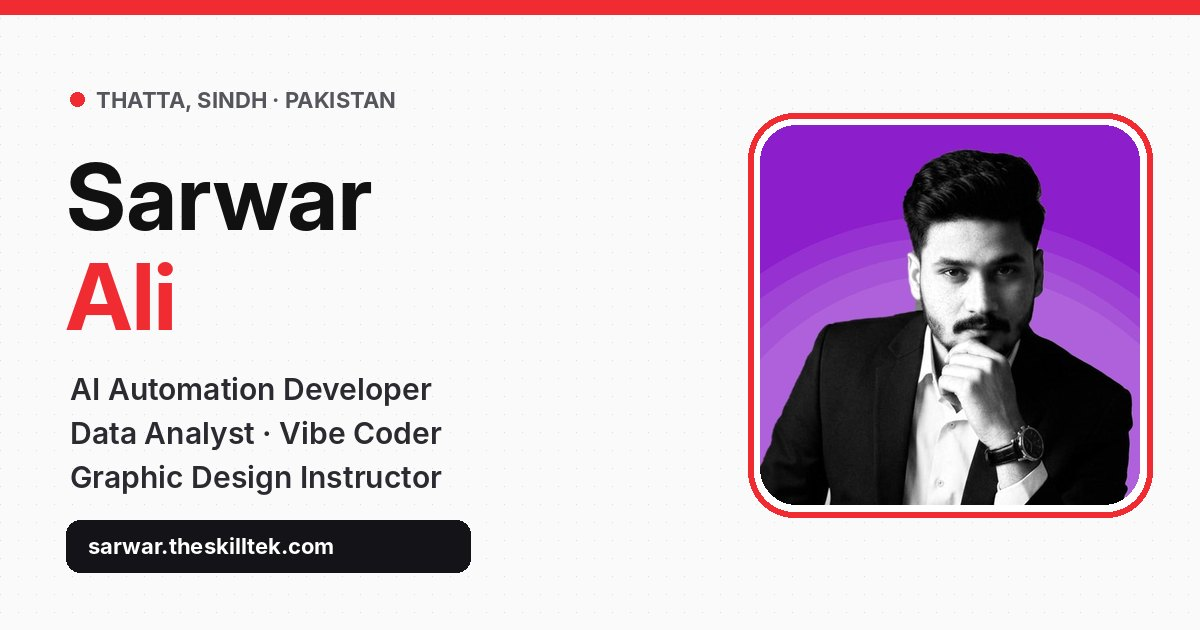
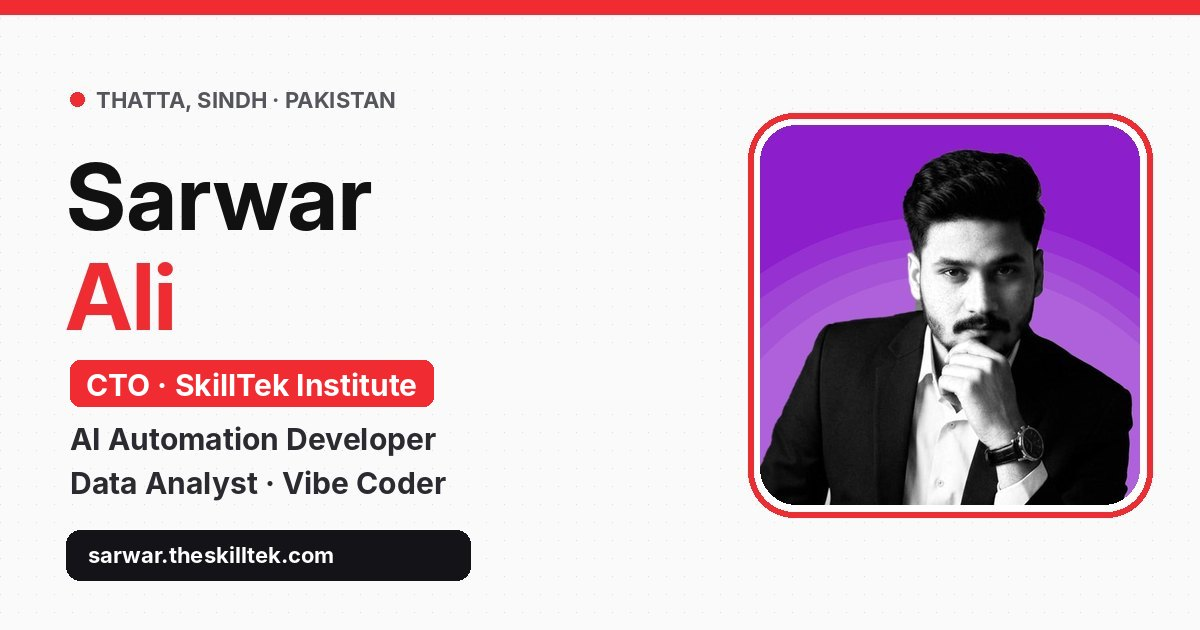
Use sarwardeveloper@gmail.com; add CTO at SkillTek to bio, timeline, schema and preview
Claude-Session: https://claude.ai/code/session_01VQYM7z4voemMEfsK4HCDMm

Changed region(s): [[0.0308, 0.573, 0.37, 0.7841], [0.0617, 0.8143, 0.4008, 0.9349]]

diff --git a/index.html b/index.html
@@ -4,17 +4,17 @@
   <meta charset="utf-8" />
   <meta name="viewport" content="width=device-width,initial-scale=1" />
   <title>Sarwar Ali · AI Automation Developer &amp; Data Analyst</title>
-<meta name="description" content="Sarwar Ali, AI automation developer from Thatta, Sindh. WhatsApp chatbots and AI agents with n8n &amp; OpenAI, vibe-coded websites and data analytics." />
+<meta name="description" content="Sarwar Ali, CTO at SkillTek and AI automation developer from Thatta, Sindh. WhatsApp chatbots and AI agents with n8n &amp; OpenAI, websites and data." />
 <meta name="author" content="Sarwar Ali" />
-<meta name="keywords" content="Sarwar Ali, Sarwar, Sarwar Ali Thatta, Sarwar Sindhi, AI automation developer, WhatsApp chatbot developer Pakistan, n8n developer, vibe coder, data analyst, graphic design instructor Thatta" />
+<meta name="keywords" content="Sarwar Ali, Sarwar, Sarwar Ali Thatta, Sarwar Ali SkillTek, SkillTek CTO, Sarwar Sindhi, AI automation developer, WhatsApp chatbot developer Pakistan, n8n developer, vibe coder, data analyst, graphic design instructor Thatta" />
 <meta name="robots" content="index, follow, max-image-preview:large, max-snippet:-1, noai, noimageai" />
 <link rel="canonical" href="https://sarwar.theskilltek.com/" />
 <meta property="og:type" content="profile" />
 <meta property="og:site_name" content="Sarwar Ali" />
 <meta property="og:url" content="https://sarwar.theskilltek.com/" />
 <meta property="og:title" content="Sarwar Ali · AI Automation Developer" />
-<meta property="og:description" content="WhatsApp AI agents, n8n workflows, vibe-coded websites, data analytics and design — from Thatta, Sindh." />
-<meta property="og:image" content="https://sarwar.theskilltek.com/assets/og-image.jpg" />
+<meta property="og:description" content="CTO at SkillTek. WhatsApp AI agents, n8n workflows, vibe-coded websites, data analytics and design — from Thatta, Sindh." />
+<meta property="og:image" content="https://sarwar.theskilltek.com/assets/og-image.jpg?v=2" />
 <meta property="og:image:width" content="1200" />
 <meta property="og:image:height" content="630" />
 <meta property="og:image:alt" content="Sarwar Ali — AI Automation Developer, Data Analyst, Vibe Coder" />
@@ -23,13 +23,13 @@
 <meta property="profile:last_name" content="Ali" />
 <meta name="twitter:card" content="summary_large_image" />
 <meta name="twitter:title" content="Sarwar Ali · AI Automation Developer" />
-<meta name="twitter:description" content="WhatsApp AI agents, n8n workflows, vibe-coded websites, data analytics and design." />
-<meta name="twitter:image" content="https://sarwar.theskilltek.com/assets/og-image.jpg" />
+<meta name="twitter:description" content="CTO at SkillTek. WhatsApp AI agents, n8n workflows, vibe-coded websites, data analytics and design." />
+<meta name="twitter:image" content="https://sarwar.theskilltek.com/assets/og-image.jpg?v=2" />
 <meta name="theme-color" content="#F12B32" />
 <link rel="icon" type="image/png" sizes="32x32" href="assets/favicon-32.png" />
 <link rel="apple-touch-icon" href="assets/apple-touch-icon.png" />
 <link rel="manifest" href="site.webmanifest" />
-<script type="application/ld+json">{"@context": "https://schema.org", "@graph": [{"@type": "Person", "@id": "https://sarwar.theskilltek.com/#sarwar", "name": "Sarwar Ali", "alternateName": ["Sarwar", "Sarwar Sindhi", "Saru"], "url": "https://sarwar.theskilltek.com/", "image": "https://sarwar.theskilltek.com/assets/og-image.jpg", "jobTitle": "AI Automation Developer, Data Analyst & Graphic Design Instructor", "description": "Sarwar Ali is an AI automation developer, data analyst, vibe coder and graphic design instructor from Thatta, Sindh, Pakistan. He builds WhatsApp chatbots and AI agents with n8n, OpenAI and Supabase.", "email": "mailto:sarwaralii785@gmail.com", "address": {"@type": "PostalAddress", "addressLocality": "Thatta", "addressRegion": "Sindh", "addressCountry": "PK"}, "alumniOf": {"@type": "CollegeOrUniversity", "name": "University of Sindh"}, "worksFor": [{"@type": "Organization", "name": "People's Information Technology Programme (PITP), MUET"}, {"@type": "Organization", "name": "NAVTTC"}], "knowsAbout": ["AI automation", "n8n", "WhatsApp chatbots", "AI agents", "OpenAI", "Supabase", "Vibe coding", "Python", "SQL", "Power BI", "Data analytics", "Graphic design", "Adobe Photoshop", "Adobe Illustrator"], "sameAs": ["https://www.linkedin.com/in/sarwar-ali-6991b1277/", "https://github.com/SARWAR110786", "https://www.instagram.com/sarwar9695/", "https://www.facebook.com/Saruali"]}, {"@type": "ProfilePage", "@id": "https://sarwar.theskilltek.com/#page", "url": "https://sarwar.theskilltek.com/", "name": "Sarwar Ali · Portfolio", "mainEntity": {"@id": "https://sarwar.theskilltek.com/#sarwar"}, "inLanguage": "en"}, {"@type": "WebSite", "@id": "https://sarwar.theskilltek.com/#site", "url": "https://sarwar.theskilltek.com/", "name": "Sarwar Ali", "publisher": {"@id": "https://sarwar.theskilltek.com/#sarwar"}}]}</script>
+<script type="application/ld+json">{"@context": "https://schema.org", "@graph": [{"@type": "Person", "@id": "https://sarwar.theskilltek.com/#sarwar", "name": "Sarwar Ali", "alternateName": ["Sarwar", "Sarwar Sindhi", "Saru"], "url": "https://sarwar.theskilltek.com/", "image": "https://sarwar.theskilltek.com/assets/og-image.jpg?v=2", "jobTitle": "Chief Technology Officer (CTO) at SkillTek Institute & Media Solutions", "description": "Sarwar Ali is the CTO of SkillTek Institute & Media Solutions in Thatta, Sindh, Pakistan, and an AI automation developer, data analyst, vibe coder and graphic design instructor. He builds WhatsApp chatbots and AI agents with n8n, OpenAI and Supabase.", "email": "mailto:sarwardeveloper@gmail.com", "address": {"@type": "PostalAddress", "addressLocality": "Thatta", "addressRegion": "Sindh", "addressCountry": "PK"}, "alumniOf": {"@type": "CollegeOrUniversity", "name": "University of Sindh"}, "worksFor": [{"@type": "EducationalOrganization", "name": "SkillTek Institute & Media Solutions", "url": "https://theskilltek.com/"}, {"@type": "Organization", "name": "People's Information Technology Programme (PITP), MUET"}, {"@type": "Organization", "name": "NAVTTC"}], "knowsAbout": ["AI automation", "n8n", "WhatsApp chatbots", "AI agents", "OpenAI", "Supabase", "Vibe coding", "Python", "SQL", "Power BI", "Data analytics", "Graphic design", "Adobe Photoshop", "Adobe Illustrator"], "sameAs": ["https://www.linkedin.com/in/sarwar-ali-6991b1277/", "https://github.com/SARWAR110786", "https://www.instagram.com/sarwar9695/", "https://www.facebook.com/Saruali"], "hasOccupation": {"@type": "Occupation", "name": "Chief Technology Officer", "occupationLocation": {"@type": "City", "name": "Thatta"}}}, {"@type": "ProfilePage", "@id": "https://sarwar.theskilltek.com/#page", "url": "https://sarwar.theskilltek.com/", "name": "Sarwar Ali · Portfolio", "mainEntity": {"@id": "https://sarwar.theskilltek.com/#sarwar"}, "inLanguage": "en"}, {"@type": "WebSite", "@id": "https://sarwar.theskilltek.com/#site", "url": "https://sarwar.theskilltek.com/", "name": "Sarwar Ali", "publisher": {"@id": "https://sarwar.theskilltek.com/#sarwar"}}]}</script>
 <link rel="preconnect" href="https://fonts.googleapis.com" />
   <link rel="preconnect" href="https://fonts.gstatic.com" crossorigin />
   <link rel="stylesheet" href="https://fonts.googleapis.com/css2?family=Instrument+Serif:ital@1&family=Bricolage+Grotesque:opsz,wght@12..96,600&family=Archivo:wght@400;500;700;800;900&display=swap" />
@@ -64,14 +64,14 @@
   <!-- ============ HERO ============ -->
   <section id="top" class="hero" aria-label="Intro">
     <div class="hero-left">
-      <p class="eyebrow"><span class="dot" aria-hidden="true"></span>THATTA, SINDH · OPEN FOR PROJECTS</p>
+      <p class="eyebrow"><span class="dot" aria-hidden="true"></span>CTO AT SKILLTEK · THATTA, SINDH</p>
 
       <h1 class="headline">
         Hi, I'm <em>Sarwar Ali,</em> I build WhatsApp chatbots, AI agents &amp; websites that work.
       </h1>
 
       <p class="lede">
-        AI automation developer, data analyst, vibe coder and graphic design instructor.
+        CTO at <a class="lede-link" href="https://theskilltek.com/" target="_blank" rel="noopener">SkillTek Institute &amp; Media Solutions</a>, AI automation developer, data analyst, vibe coder and graphic design instructor.
         I build with n8n, OpenAI and Supabase, ship sites with AI-assisted development,
         and turn raw data into dashboards. Hold the trigger to spray my work.
       </p>
@@ -217,15 +217,15 @@
       </figure>
 
       <div class="about-copy reveal">
-        <p class="about-lead">I'm Sarwar Ali, a Computer Science student at the University of Sindh and an AI automation developer based in Makli, Thatta.</p>
+        <p class="about-lead">I'm Sarwar Ali, CTO of SkillTek Institute &amp; Media Solutions, a Computer Science student at the University of Sindh, and an AI automation developer based in Makli, Thatta.</p>
         <p>I build WhatsApp chatbots and AI agents with n8n, OpenAI and Supabase, ship websites through AI-assisted development (vibe coding), and analyse data with Python, SQL and Power BI. My recent work includes a multi-flow WhatsApp chatbot for Collective Pakistan that guides citizens through the Right to Information process.</p>
-        <p>Alongside building, I teach. I've trained multiple batches of students in graphic design for the Sindh government's People's IT Programme at MUET, and I'm an instructor under the NAVTTC programme. Freelancing on Fiverr since 2018 taught me to deliver for real clients.</p>
+        <p>At SkillTek I lead technology: the website, student portal, LMS and automation tools, IT infrastructure and our Agentic AI &amp; Automation program. Alongside building, I teach. I've trained multiple batches of students in graphic design for the Sindh government's People's IT Programme at MUET, and I'm an instructor under the NAVTTC programme. Freelancing on Fiverr since 2018 taught me to deliver for real clients.</p>
         <p class="about-motto">Learn by building. Solve real problems. Automate repetitive work.</p>
 
         <dl class="facts">
           <div><dt>Based in</dt><dd>Makli, Thatta · Sindh, Pakistan</dd></div>
           <div><dt>Studying</dt><dd>BS Computer Science · University of Sindh</dd></div>
-          <div><dt>Building</dt><dd>WhatsApp AI agents, n8n workflows, websites</dd></div>
+          <div><dt>Role</dt><dd>CTO · SkillTek Institute &amp; Media Solutions</dd></div>
           <div><dt>Teaching</dt><dd>Graphic design · PITP-MUET &amp; NAVTTC</dd></div>
         </dl>
       </div>
@@ -428,6 +428,14 @@
 
     <ol class="timeline">
       <li class="tl reveal">
+        <div class="tl-when"><span>SkillTek</span><span>Present</span></div>
+        <div class="tl-body">
+          <h3>Chief Technology Officer (CTO)</h3>
+          <p class="tl-org"><a href="https://theskilltek.com/" target="_blank" rel="noopener">SkillTek Institute &amp; Media Solutions</a> · Thatta</p>
+          <p>Leading technology strategy and implementation: the website, student portal, LMS and automation tools, IT infrastructure and digital systems, technical support and innovation.</p>
+        </div>
+      </li>
+      <li class="tl reveal">
         <div class="tl-when"><span>Feb 2026</span><span>Present</span></div>
         <div class="tl-body">
           <h3>Instructor, Graphic Design</h3>
@@ -554,7 +562,7 @@
     <p class="cta-sub">I work with businesses, startups, institutes and founders who want to put AI automation into action.</p>
     <div class="cta-actions">
       <a class="key key--black" href="https://wa.me/923173024105" target="_blank" rel="noopener"><span class="key-legend" aria-hidden="true">⏎</span><span class="key-label">WhatsApp me ↗</span></a>
-      <a class="key key--white" href="mailto:sarwaralii785@gmail.com"><span class="key-legend" aria-hidden="true">@</span><span class="key-label">sarwaralii785@gmail.com</span></a>
+      <a class="key key--white" href="mailto:sarwardeveloper@gmail.com"><span class="key-legend" aria-hidden="true">@</span><span class="key-label">sarwardeveloper@gmail.com</span></a>
     </div>
   </section>
   </main>
@@ -568,7 +576,7 @@
     <ul class="socials" aria-label="Sarwar on social media">
       <li><a href="https://wa.me/923173024105" target="_blank" rel="noopener" aria-label="WhatsApp" class="socials-wa">
         <svg viewBox="0 0 24 24" aria-hidden="true"><path d="M12.04 2a9.9 9.9 0 0 0-8.5 14.98L2 22l5.17-1.5A9.93 9.93 0 1 0 12.04 2Zm0 18.13a8.2 8.2 0 0 1-4.19-1.15l-.3-.18-3.07.89.9-2.99-.2-.31a8.2 8.2 0 1 1 6.86 3.74Zm4.5-6.13c-.25-.12-1.46-.72-1.69-.8-.23-.08-.39-.12-.55.12-.16.25-.63.8-.78.97-.14.16-.29.18-.53.06-.25-.12-1.04-.38-1.98-1.22-.73-.65-1.23-1.46-1.37-1.7-.14-.25-.02-.38.11-.5.11-.11.25-.29.37-.43.12-.15.16-.25.25-.41.08-.17.04-.31-.02-.43-.06-.12-.55-1.33-.76-1.82-.2-.48-.4-.41-.55-.42h-.47a.9.9 0 0 0-.65.31c-.23.25-.86.84-.86 2.05s.88 2.38 1 2.54c.12.17 1.73 2.64 4.2 3.7.59.25 1.05.4 1.4.52.59.19 1.13.16 1.55.1.47-.07 1.46-.6 1.66-1.17.21-.58.21-1.07.14-1.17-.06-.1-.22-.17-.47-.29Z"/></svg><span>WhatsApp</span></a></li>
-      <li><a href="mailto:sarwaralii785@gmail.com" aria-label="Email">
+      <li><a href="mailto:sarwardeveloper@gmail.com" aria-label="Email">
         <svg viewBox="0 0 24 24" aria-hidden="true"><path d="M3 5h18a1 1 0 0 1 1 1v12a1 1 0 0 1-1 1H3a1 1 0 0 1-1-1V6a1 1 0 0 1 1-1Zm1 2.4V17h16V7.4l-8 5.6-8-5.6ZM5.6 7 12 11.5 18.4 7H5.6Z"/></svg><span>Email</span></a></li>
       <li><a href="https://www.linkedin.com/in/sarwar-ali-6991b1277/" target="_blank" rel="noopener" aria-label="LinkedIn">
         <svg viewBox="0 0 24 24" aria-hidden="true"><path d="M4.98 3.5a2.5 2.5 0 1 1 0 5 2.5 2.5 0 0 1 0-5ZM3 9.75h4v11H3v-11Zm6.5 0h3.8v1.5h.06c.53-1 1.83-2.05 3.77-2.05 4.03 0 4.77 2.65 4.77 6.1v5.45h-4v-4.83c0-1.15-.02-2.63-1.6-2.63-1.6 0-1.85 1.25-1.85 2.55v4.91h-3.95v-11Z"/></svg><span>LinkedIn</span></a></li>
@@ -581,7 +589,7 @@
       <li><a href="cv/Sarwar-Ali-CV.pdf" target="_blank" rel="noopener" data-cv class="socials-cv">
         <svg viewBox="0 0 24 24" aria-hidden="true"><path d="M11 3h2v10.17l3.59-3.58L18 11l-6 6-6-6 1.41-1.41L11 13.17V3Zm-7 16h16v2H4v-2Z"/></svg><span>Download CV</span></a></li>
     </ul>
-    <p class="foot-meta"><span class="foot-contact">WhatsApp 0317 3024105 · sarwaralii785@gmail.com</span><br />© 2026 Sarwar Ali · Makli, Thatta · Sindh, Pakistan · All rights reserved. Content and design may not be copied or reused without permission.</p>
+    <p class="foot-meta"><span class="foot-contact">WhatsApp 0317 3024105 · sarwardeveloper@gmail.com</span><br />© 2026 Sarwar Ali · Makli, Thatta · Sindh, Pakistan · All rights reserved. Content and design may not be copied or reused without permission.</p>
   </footer>
 
   <!-- ============ DETAIL CARD ============ -->

diff --git a/script.js b/script.js
@@ -11,7 +11,7 @@
   const CONFIG = {
     whatsapp: '923173024105',
     whatsappDisplay: '0317 3024105',   // international number, digits only, e.g. '923001234567'
-    email: 'sarwaralii785@gmail.com',      // e.g. 'hello@example.com'
+    email: 'sarwardeveloper@gmail.com',      // e.g. 'hello@example.com'
     linkedin: 'https://www.linkedin.com/in/sarwar-ali-6991b1277/',
     github: 'https://github.com/SARWAR110786',
     instagram: 'https://www.instagram.com/sarwar9695/',
@@ -109,7 +109,10 @@
 
     // Profile
     { id: 'about', group: 'about', kicker: 'Profile', title: 'About Sarwar', sub: 'CS · AI · Data', photo: true,
-      desc: "I'm a Computer Science student and technology enthusiast interested in building intelligent digital solutions. My interests include AI automation, data analytics, Python, and modern web development." },
+      desc: "I'm the CTO of SkillTek Institute & Media Solutions in Thatta, a Computer Science student and an AI automation developer. I build WhatsApp chatbots, AI agents, websites and dashboards." },
+    { id: 'cto', group: 'about', kicker: 'Experience', title: 'SkillTek CTO', sub: 'Chief Technology Officer', photo: true,
+      desc: 'Chief Technology Officer at SkillTek Institute & Media Solutions, Thatta: technology strategy, the website, student portal, LMS and automation tools, IT infrastructure and digital systems.',
+      url: 'https://theskilltek.com/', urlLabel: 'Visit SkillTek ↗' },
     { id: 'whatido', group: 'about', kicker: 'Profile', title: 'What I Do', sub: 'Build · Automate · Analyse',
       list: ['AI-powered chatbots', 'WhatsApp automation', 'Business workflow automation', 'AI agent development',
              'Data analysis and visualization', 'Dashboard development',
@@ -146,14 +149,14 @@
   const BY_ID = Object.fromEntries([...BIG, ...TAGS].map((s) => [s.id, s]));
 
   // Order used while holding the trigger (every 4th shot is swapped for a random tag)
-  const ROTATION = ['p4', 'p2', 'n8n', 'about', 'p6', 'vibe', 'p1', 'trainer', 'p8', 'python', 'p10', 'sql',
+  const ROTATION = ['cto', 'p4', 'p2', 'n8n', 'about', 'p6', 'vibe', 'p1', 'trainer', 'p8', 'python', 'p10', 'sql',
     'p7', 'openai', 'cs', 'p5', 'p11', 'powerbi', 'navttc', 'p3', 'supabase', 'whatido', 'p9', 'pandas', 'fiverr',
     'design', 'p12', 'certs', 'data', 'ydwo', 'numpy', 'excel', 'make', 'approach', 'builder', 'contact'];
 
   const GROUPS = {
     work: ['p4', 'p2', 'p6', 'p1', 'p8', 'p5', 'p7', 'p3', 'p9', 'p10', 'p11', 'p12'],
     skills: ['python', 'data', 'powerbi', 'sql', 'pandas', 'numpy', 'n8n', 'supabase', 'openai', 'excel', 'make', 'vibe', 'design'],
-    about: ['about', 'trainer', 'navttc', 'ydwo', 'fiverr', 'cs', 'certs', 'whatido', 'approach', 'builder'],
+    about: ['about', 'cto', 'trainer', 'navttc', 'ydwo', 'fiverr', 'cs', 'certs', 'whatido', 'approach', 'builder'],
     contact: ['contact', 't-whatsapp', 'about'],
   };
 

diff --git a/sections.css b/sections.css
@@ -322,3 +322,6 @@ html, body { overflow-x: clip; }
 
 /* Copy protection for images */
 img { -webkit-user-drag: none; user-select: none; -webkit-user-select: none; -webkit-touch-callout: none; }
+
+.lede-link { color: var(--ink); font-weight: 700; text-decoration: underline; text-decoration-color: var(--red); text-decoration-thickness: 2px; text-underline-offset: 3px; }
+.tl-org a { color: inherit; }
